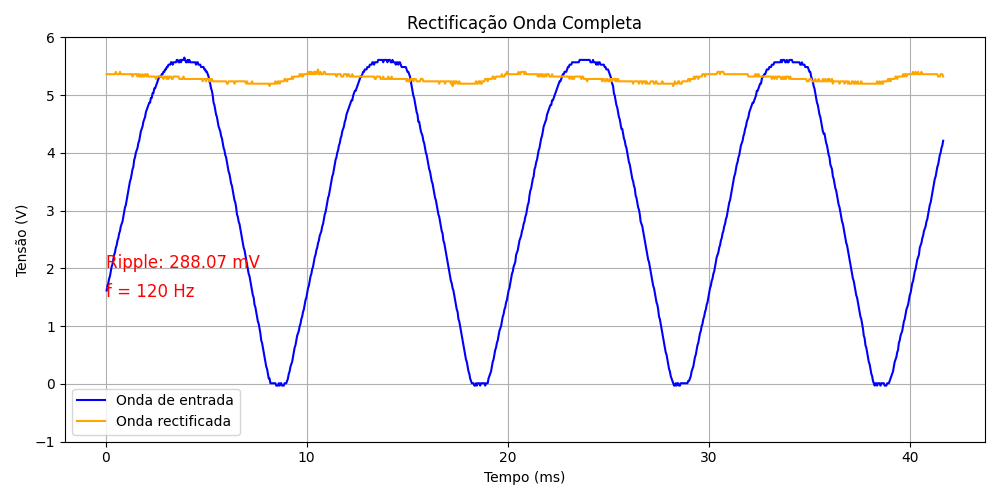
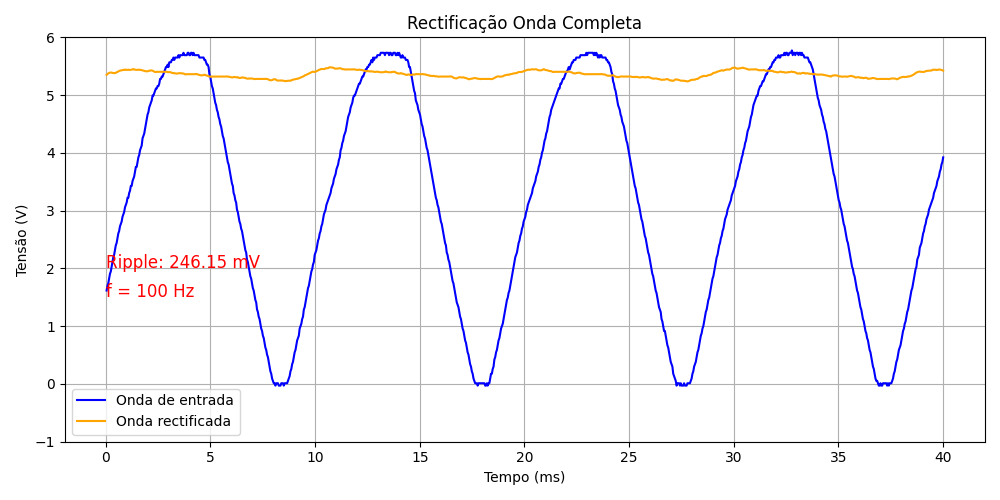
UPDATE - O sinal de saída do ripple de onda completa, foi suavizado usando o filtro descrito nos comentários

diff --git a/ctrl_hardware/mixed_signal_oscilloscope.py b/ctrl_hardware/mixed_signal_oscilloscope.py
@@ -31,12 +31,14 @@ from datetime import datetime
 import matplotlib.pyplot as plt
 from matplotlib.ticker import EngFormatter
 import numpy as np
+#from scipy.ndimage import uniform_filter1d
+from scipy.signal import savgol_filter
+#from scipy.signal import butter, filtfilt
+
+
 
 import os, pickle, socket, time
 import store_ps_dmm, configRelays
-
-import csv
-
 
 
 # Falar do porquê da variável global e o porqê de iniciar a 1.0
@@ -280,7 +282,18 @@ def config_mso_ondacompleta(Resistance:int, Capacitor:int):
         mso.stop() # Para a aquisição
 
          # Converte para array NumPy
-        analog_data_out = np.array(analog_data_out)
+
+        data_filtrado = savgol_filter(analog_data_out, window_length=11, polyorder=2) # Filtro Savitzky-Golay
+        analog_data_out = np.array(data_filtrado)
+        
+        #Filtro passa-baixo com SciPy (digital real)
+        #b, a = butter(N=2, Wn=0.1)  # ordem 2, frequência de corte normalizada
+        #data_filtrado = filtfilt(b, a, analog_data_out)
+        
+        # uniform_filter1d
+        #data_filtrado = uniform_filter1d(analog_data_out, size=5)      
+        #analog_data_out = np.array(data_filtrado)
+        
         
         # ==== CÁLCULO DE RIPPLE ====
         max_saida = np.max(analog_data_out)
@@ -290,7 +303,7 @@ def config_mso_ondacompleta(Resistance:int, Capacitor:int):
             vripple_text = EngFormatter(unit='V').format_data_short(round(vripple, 5))
         else:
             vripple_text = EngFormatter(unit='V').format_data_short(round(vripple, 2))
-        freq_text = EngFormatter(unit='Hz').format_data_short(120)
+        freq_text = EngFormatter(unit='Hz').format_data_short(100)
         
          # Define o EngFormatter para o eixo x
         formatter0 = EngFormatter(unit='ms')
@@ -311,7 +324,8 @@ def config_mso_ondacompleta(Resistance:int, Capacitor:int):
         plt.grid(True)
         plt.tight_layout()
         plt.savefig("webserver/website/static/images/onda-completa.png")
-
+        plt.close()
+        
         ps.enable_all_outputs(False) # Desliga a fonte de alimentação
         ps.release()
         mso.release()
@@ -321,9 +335,9 @@ def config_mso_ondacompleta(Resistance:int, Capacitor:int):
         virtualbench.release()
 
 def estimar_frequencia(number_of_analog_samples_acquired):
-    increment = 1/(120*number_of_analog_samples_acquired)
+    increment = 1/(100*number_of_analog_samples_acquired)
     x_values_increment = np.cumsum(np.full(int(number_of_analog_samples_acquired), increment)) 
-    x_values_increment = 5 * x_values_increment * 1000 # ms
+    x_values_increment = 4 * x_values_increment * 1000 # ms
     return x_values_increment
 
 def plot_graphic_ondacompleta(analog_data, x_values_increment):
